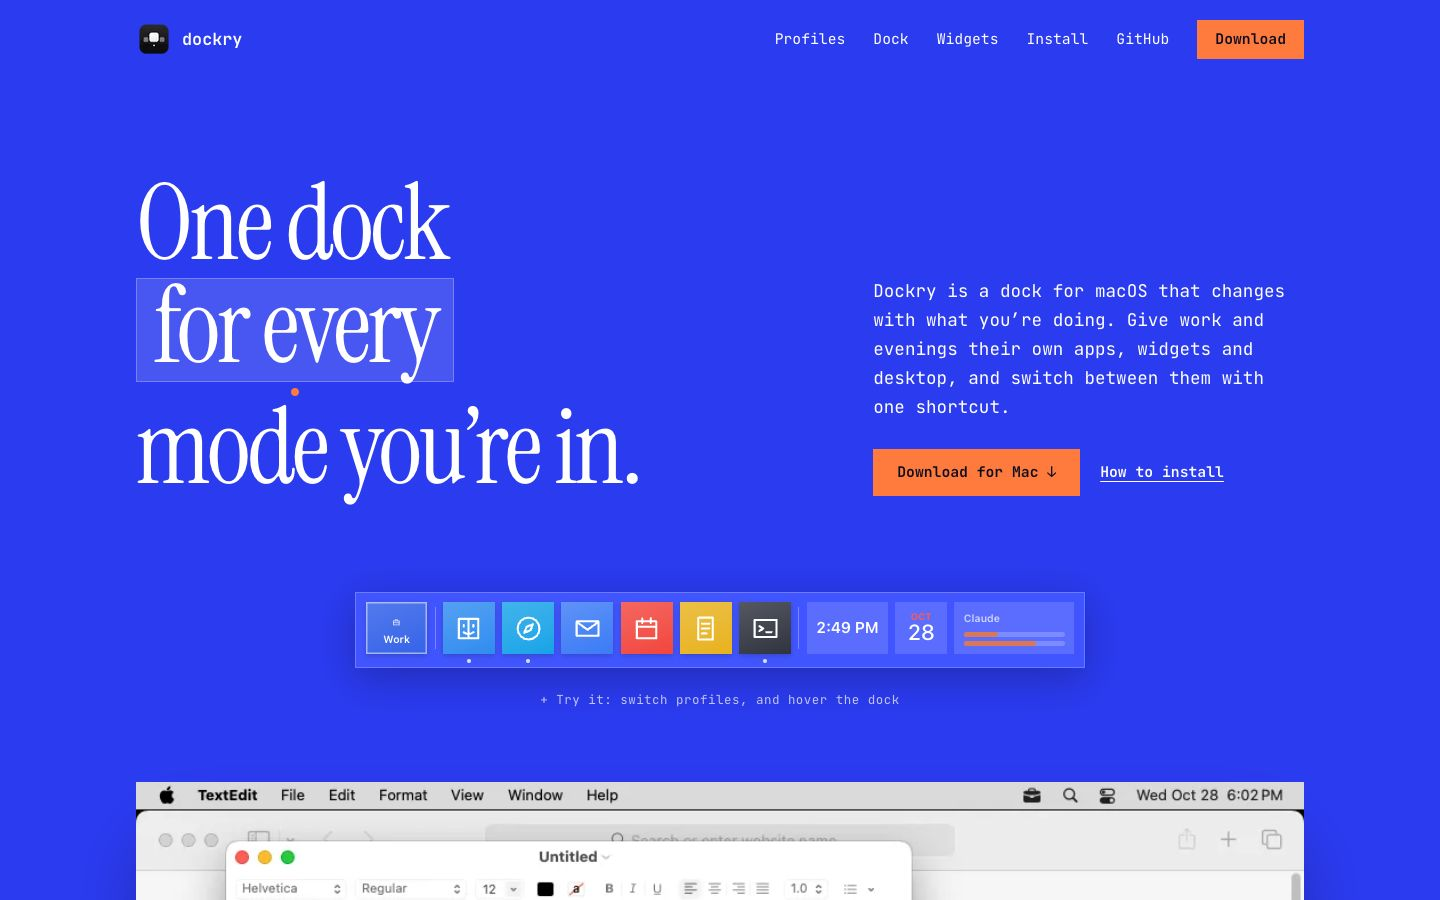
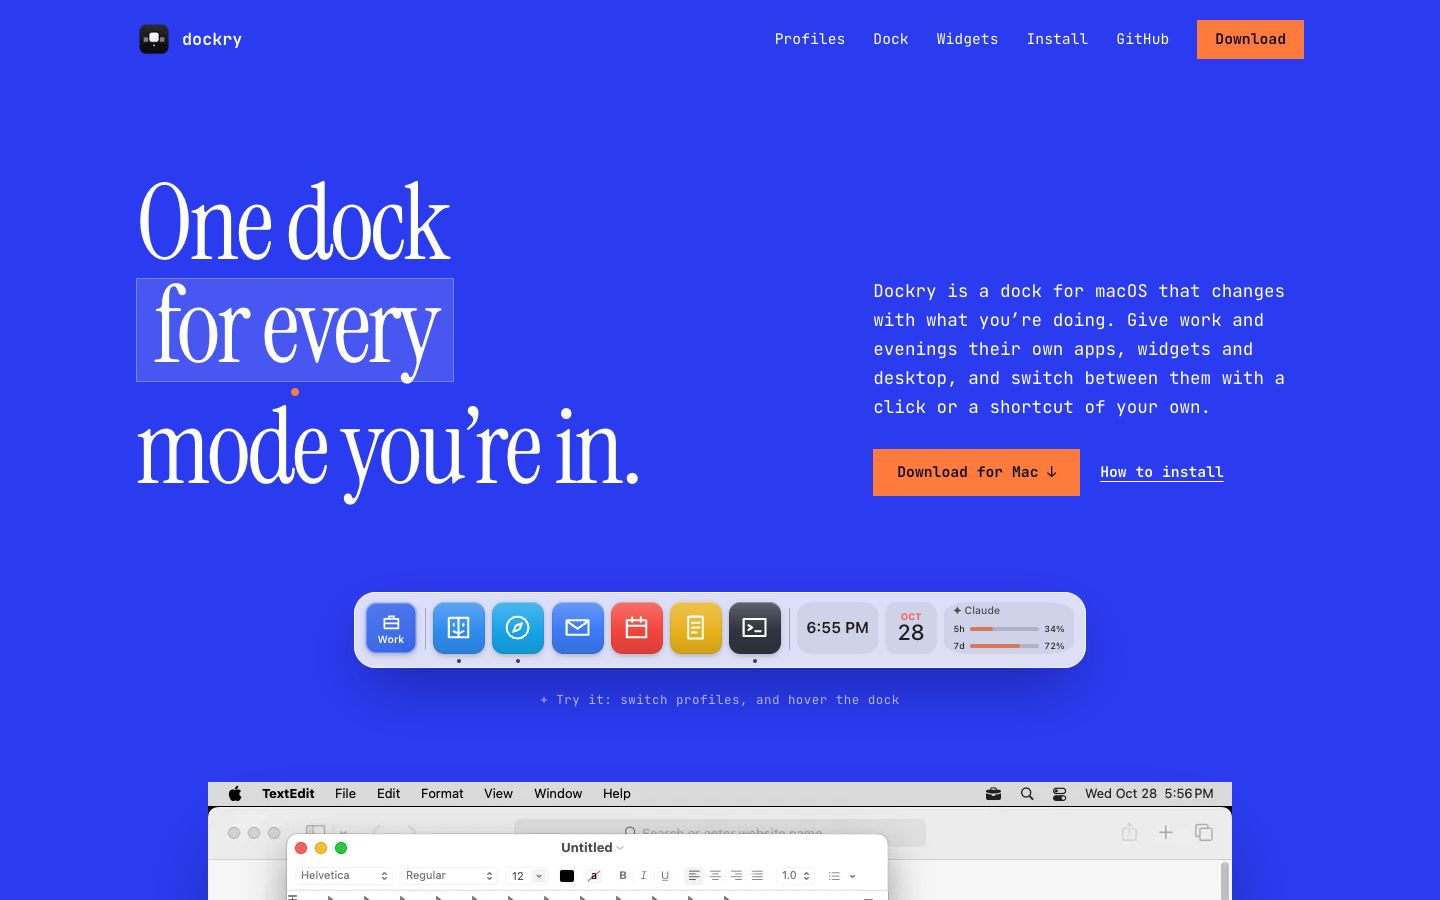
Cobalt: an app-like demo dock with an entrance, features instead of shortcuts
- Demo dock looks like Dockry in light mode: rounded, frosted, icon-like tiles, a square
  profile button with a full-size symbol, and the Claude widget's 5h and 7d rows.
- Entrance: the dock rises in and its items pop up one after another; switching profiles
  plays the pop again, quicker. Off for reduced motion.
- Profiles lists what Dockry does (widgets, Claude usage, arranging, Edit Profiles, what it
  does better than the Dock) instead of shortcuts, which Dockry no longer sets by default.
  The tabs show features (Switcher, Arrange, Edit Profiles, Calendar), not the Chill profile.
- Install step 5 and the hero lead no longer promise ⌃⌥1 and ⌃⌥2.
- Screenshots from Dockry's screenshots branch (dev-drag-reorder), plus drag to reorder.
  They are 1024 pixels wide, so the page no longer shows them larger than that.

Changed region(s): [[0.0938, 0.84, 0.9062, 1.0], [0.2188, 0.6533, 0.7812, 0.7467], [0.5938, 0.4356, 0.8438, 0.4667]]

diff --git a/src/i18n/en.ts b/src/i18n/en.ts
@@ -18,7 +18,7 @@ export const en = {
   hero: {
     // Three lines; the middle one is the one each design plays with.
     headline: ['One dock', 'for every', 'mode you’re in.'],
-    lead: 'Dockry is a dock for macOS that changes with what you’re doing. Give work and evenings their own apps, widgets and desktop, and switch between them with one shortcut.',
+    lead: 'Dockry is a dock for macOS that changes with what you’re doing. Give work and evenings their own apps, widgets and desktop, and switch between them with a click or a shortcut of your own.',
     download: 'Download for Mac',
     install: 'How to install',
     hint: 'Try it: switch profiles, and hover the dock',
@@ -52,10 +52,11 @@ export const en = {
     title: 'Not one long row. One for each part of your day.',
     lead: 'A profile is a dock of its own: pinned apps, widgets, a color, and the desktop it lives on. Switching swaps all of it at once.',
     items: [
-      ['⌃⌥Space', 'Hold ⌃⌥ and tap Space to step through your profiles, like ⌘Tab. Let go to switch.'],
-      ['⌃⌥1 – 9', 'Jump straight to a profile. The menu bar item and the profile button do too.'],
-      ['Desktops', 'Each profile can take you to its own desktop, so Work stays on Desktop 1.'],
-      ['Yours', 'Edit apps, widgets, symbol and color in Settings, or as plain JSON.'],
+      ['Widgets', 'A clock, the date, Spotify, your Mac’s other users and Claude usage. Each profile picks its own.'],
+      ['Claude usage', 'How much of your plan’s 5-hour and weekly limits you’ve used. Click for when each one resets.'],
+      ['Yours to arrange', 'Drag apps, widgets and dividers into any order. Right-click to add a divider or a widget.'],
+      ['Edit Profiles', 'Pinned apps, widgets, symbol, color and desktop for each profile, in one editor.'],
+      ['Better than the Dock', 'Windows stop at its edge, every screen gets one, and the macOS Dock comes back when you quit.'],
     ],
   },
 
@@ -95,7 +96,7 @@ export const en = {
       'Drag <strong>Dockry</strong> onto <strong>Applications</strong>, then eject the disk image.',
       'Open it. When macOS says it can’t be opened, click <strong>Done</strong>.',
       'In <strong>System Settings → Privacy &amp; Security</strong>, click <strong>Open Anyway</strong> next to “Dockry was blocked”, and confirm.',
-      'Look for Dockry in the menu bar. Press <strong>⌃⌥1</strong> for Work, <strong>⌃⌥2</strong> for Chill.',
+      'Look for Dockry in the menu bar. Click the profile button at the start of the dock to switch, or give each profile a shortcut in <strong>Settings</strong>.',
     ],
     terminal: 'Or skip step 4 from the terminal:',
     command: 'xattr -dr com.apple.quarantine /Applications/Dockry.app',
